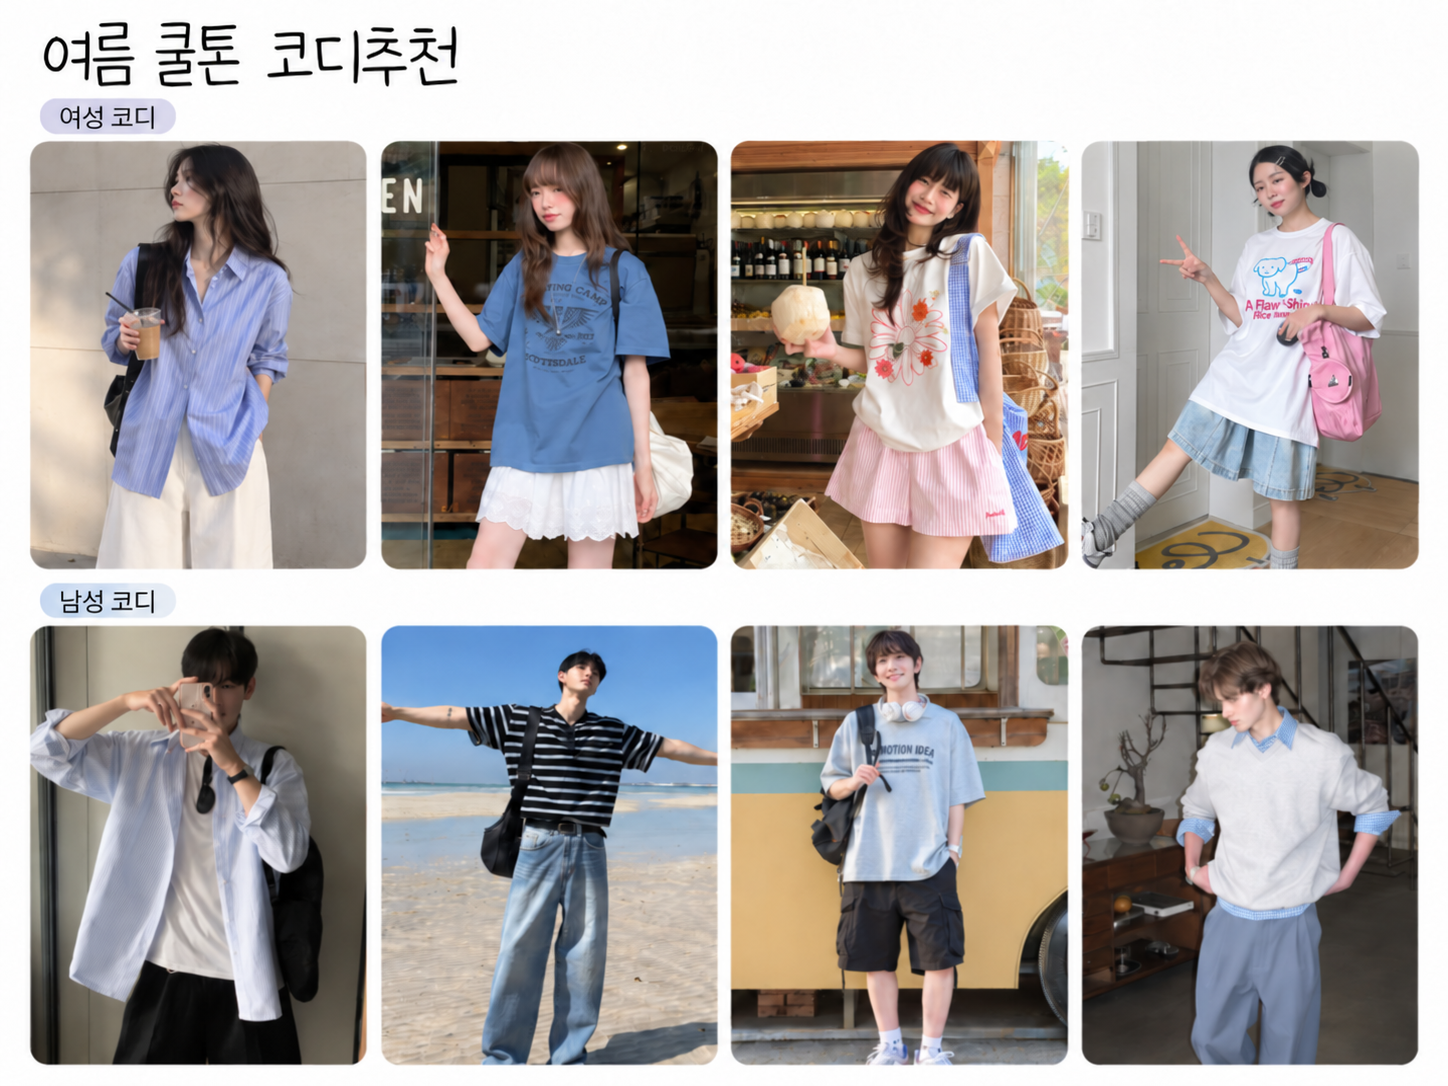
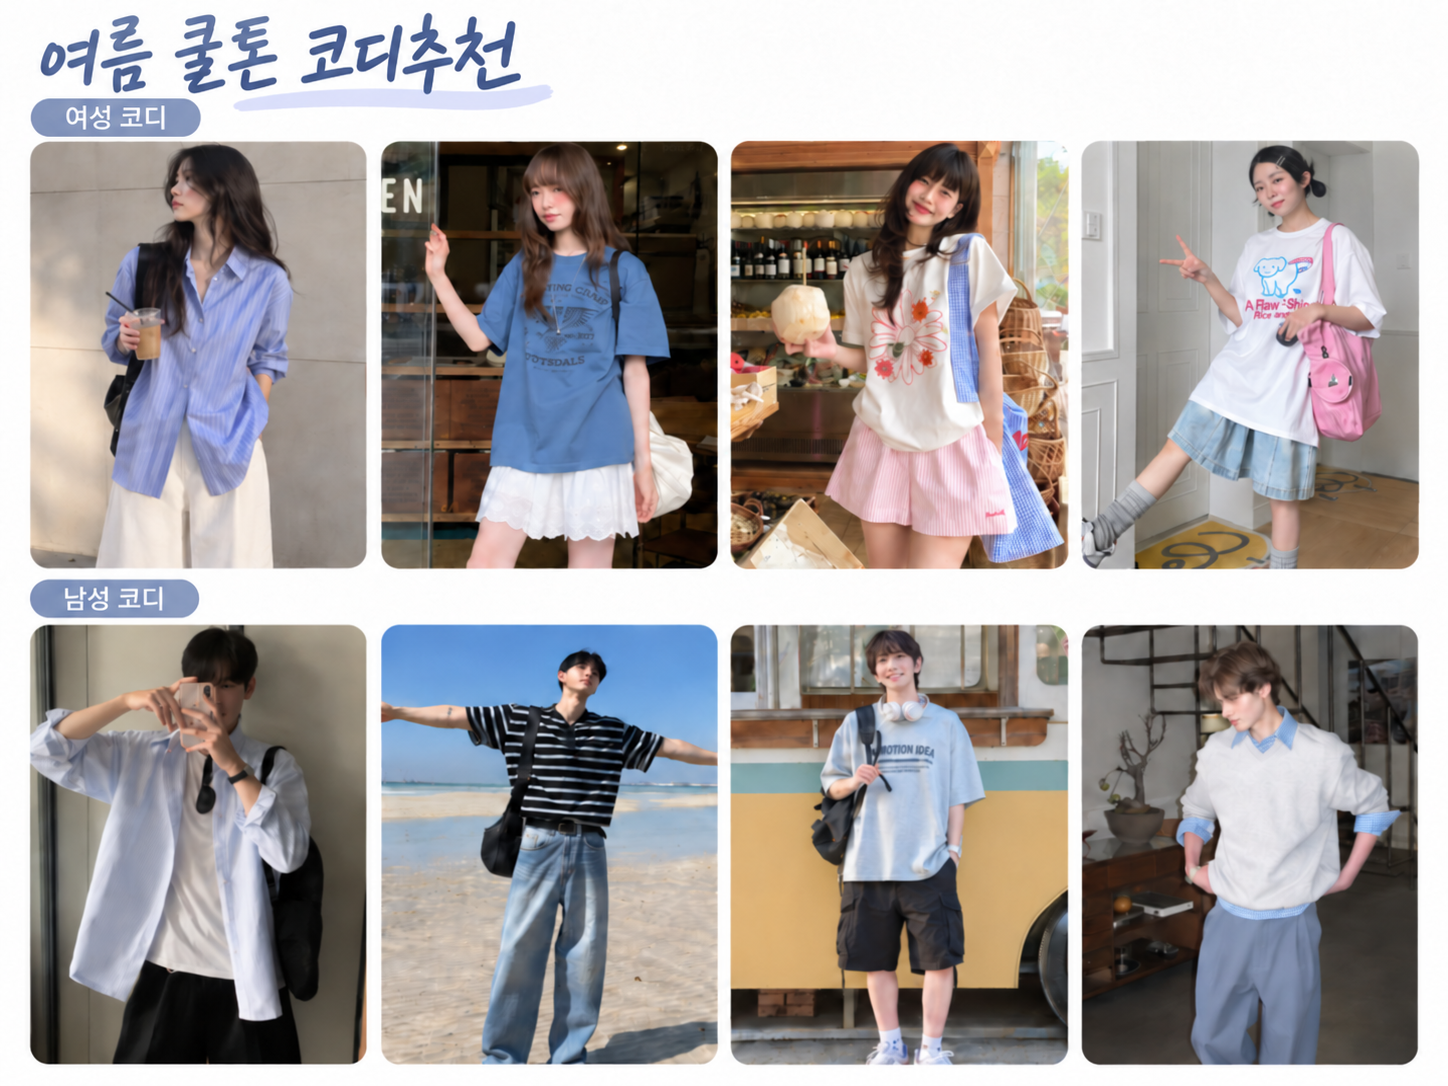
코디 추가

diff --git a/static/main.js b/static/main.js
@@ -12,10 +12,10 @@ document.addEventListener('DOMContentLoaded', async () => {
 
     // 시즌별 가이드 이미지 (static/images/ 폴더에 넣어두세요)
     const SEASON_IMAGES = {
-        '봄':   { style: '최종_봄.png',   makeup: '봄_화장품.png', clothes: '여름_코디.png',  title: '봄 웜톤 가이드' },
+        '봄':   { style: '최종_봄.png',   makeup: '봄_화장품.png', clothes: '봄_코디.png',  title: '봄 웜톤 가이드' },
         '여름': { style: '최종_여름.png', makeup: '여름_화장품.png', clothes: '여름_코디.png', title: '여름 쿨톤 가이드' },
         '가을': { style: '최종_가을.png', makeup: '가을_화장품.png', clothes: '가을_코디.png', title: '가을 웜톤 가이드' },
-        '겨울': { style: '최종_겨울.png', makeup: '겨울_화장품.png', clothes: '여름_코디.png', title: '겨울 쿨톤 가이드' }
+        '겨울': { style: '최종_겨울.png', makeup: '겨울_화장품.png', clothes: '겨울_코디.png', title: '겨울 쿨톤 가이드' }
     };
 
     function renderSeasonGuide(bestGroup) {
